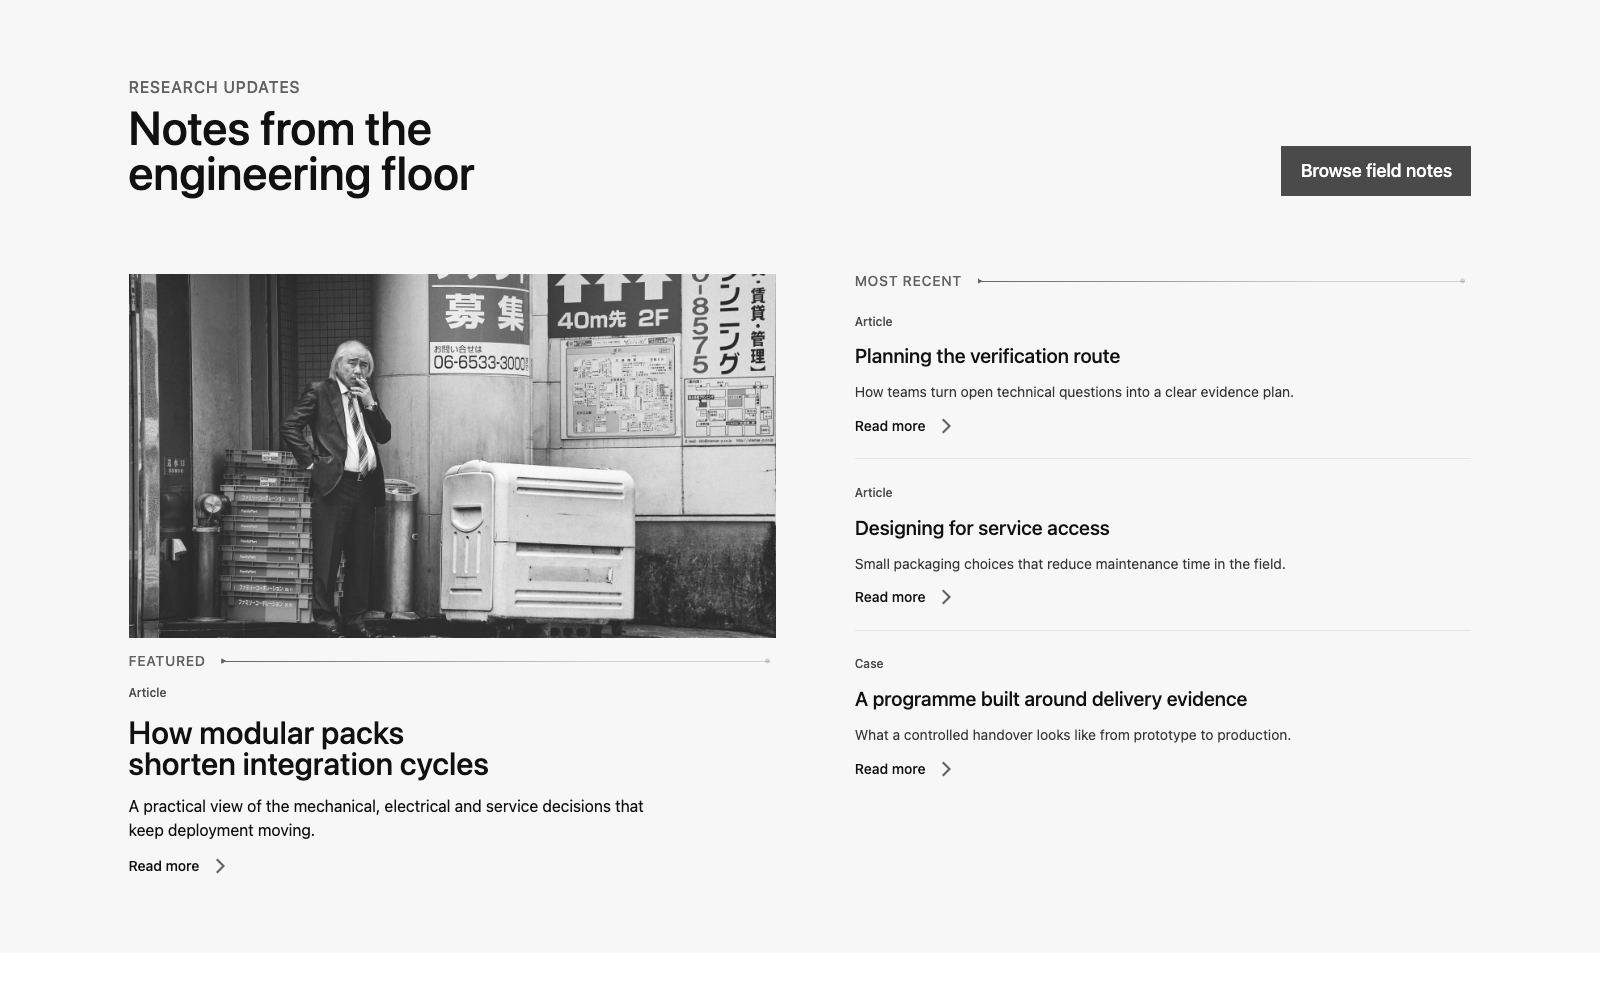
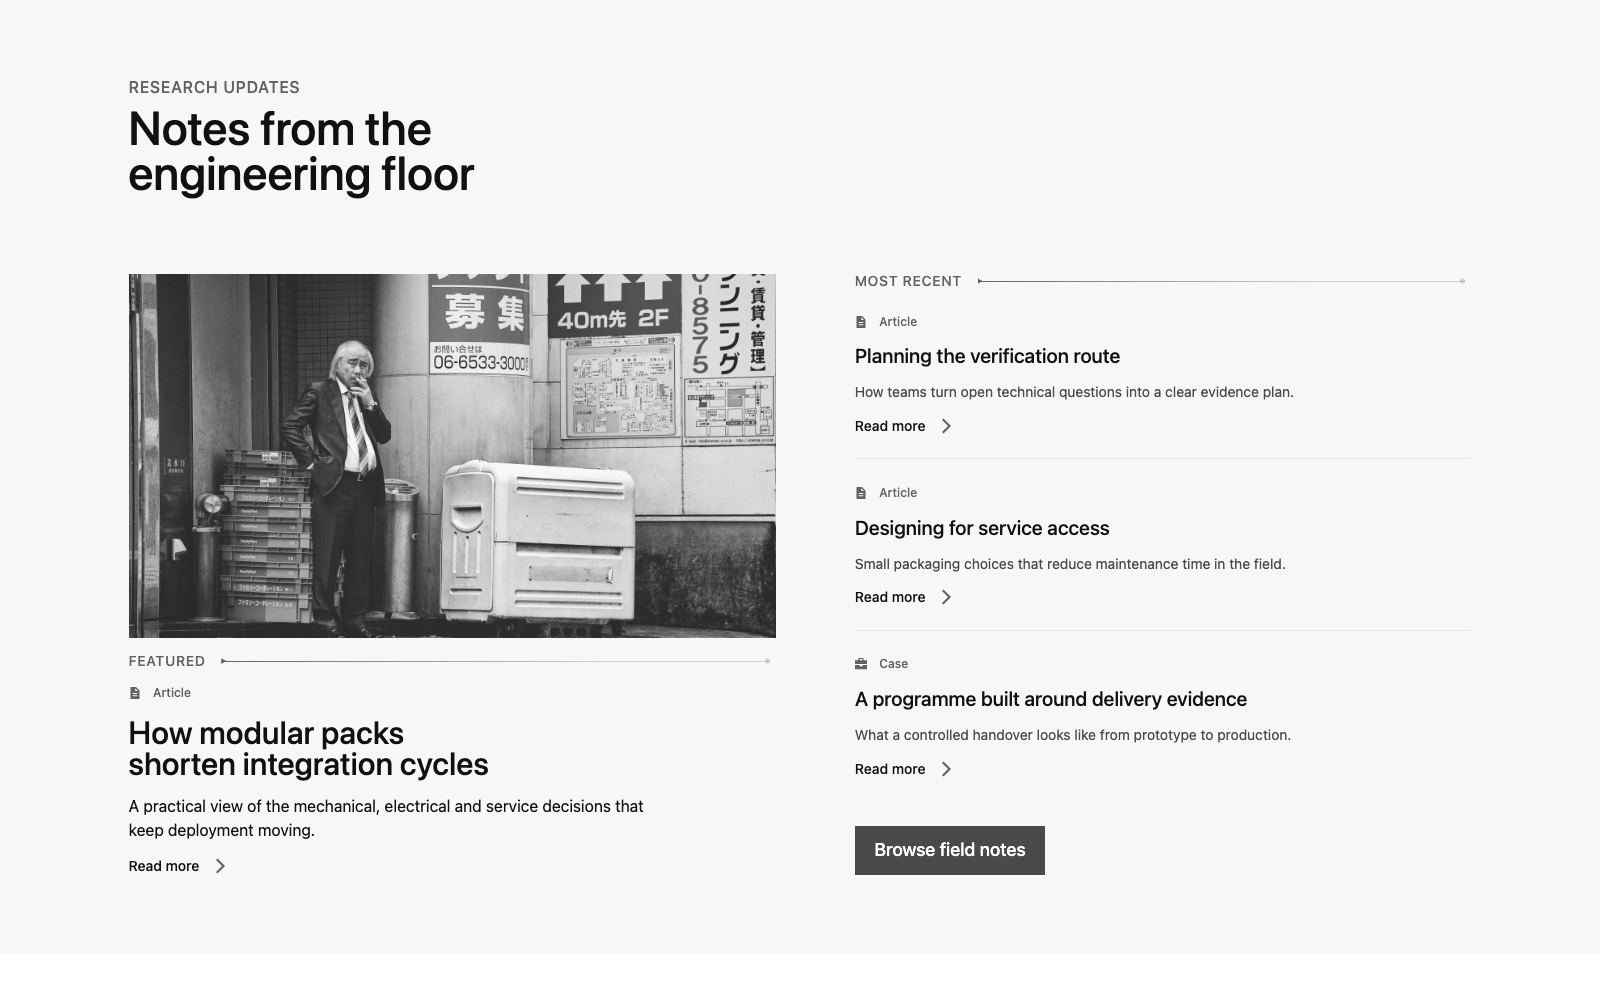
fix: align density and insight themes with customer styling

diff --git a/CHANGELOG.md b/CHANGELOG.md
@@ -8,6 +8,7 @@
 - Add prerelease Streamer Allentown with the standard Intro and optional zero-to-two CTA Group.
 - Add optional localized results headings to Case Studies slides and editable Problem Solution animation labels; empty labels render no text.
 - Add optional zero-to-two CTA groups below the Process Story Allentown intro, below its item list, and within each item; resolve Content-or-URL targets through the shared adapter.
+- Expose the existing Sharp Solid icon-name validator and SVG resolver through `@kinekt-io/components/icons` for consuming CMS configurations.
 
 ### Changed
 
@@ -28,8 +29,10 @@
 - Omit incomplete optional CTAs during frontend conversion, including nested callouts, without dropping their section or page. Keep publish-time validation, required CTA validation and URL safety checks intact.
 - Synchronize Process Story Trinity progression with its six-second linear timer fill. Hover and offscreen pauses preserve elapsed progress; clicking stops autoplay and fills the selected timer.
 - Expose Steps Stage item descriptions as native Payload rich text instead of textareas, matching the existing rich-text renderer and stored editor data.
-- Use `primary-light` for both Homepage Problem Solution intros and reusable item descriptions in semi-dark, and `primary` for Read More descriptions in semi-light.
+- Use `primary-light` for both Homepage Problem Solution intros and reusable item descriptions in dark and semi-dark, and `primary` for Read More descriptions in semi-light.
 - Size Form Section intro headings one visual level below their semantic tag. Use theme-aware contact text and accent icons, token-based large contact headings with 1.2 line height, and a divider between the form and contact list.
+- Let Density Comparison intros and headings fill their container, size table headers with `h5`, and alternate full/half-opacity theme-aware backgrounds in the middle comparison column.
+- Place Featured Insights' section CTA below the recent articles, retaining mobile access. Render supplied `kindIcon` names as accent-colored SVGs, use explicit card text classes, and give recent descriptions theme-aware primary colors.
 - Correct the Product Hero Allentown design reference to [Hero Section - Battery Packs](https://www.figma.com/design/7rHrxb3twyBvPo9QxkOBly/KSW-1-Tulip-Tech-Website?node-id=5255-538028&t=OtYEVTRRdAJJYQ0v-11); content fields and rendering are unchanged.
 
 ## 26.10.2-beta.25 — 2026-10-23

diff --git a/README.md b/README.md
@@ -251,6 +251,8 @@ Icon dependencies require a Font Awesome **Pro Package Token** with access to `@
 
 Shared components render Font Awesome 7 Sharp Solid definitions as SVG, without an icon font or browser-side Font Awesome API. Editor icon fields accept icon names such as `bolt` or `shield-halved`; optional empty fields omit the icon.
 
+Consumers can import `isCtaIcon` and `ctaIconPaths` from `@kinekt-io/components/icons` to validate editor-owned icon names and resolve the same SVG definitions. Featured Insights accepts optional renderer-owned `insightSources[].kindIcon`; a CMS can derive this from central article-type settings without duplicating icon controls on each card.
+
 Run commands from this repository:
 
 ```bash
